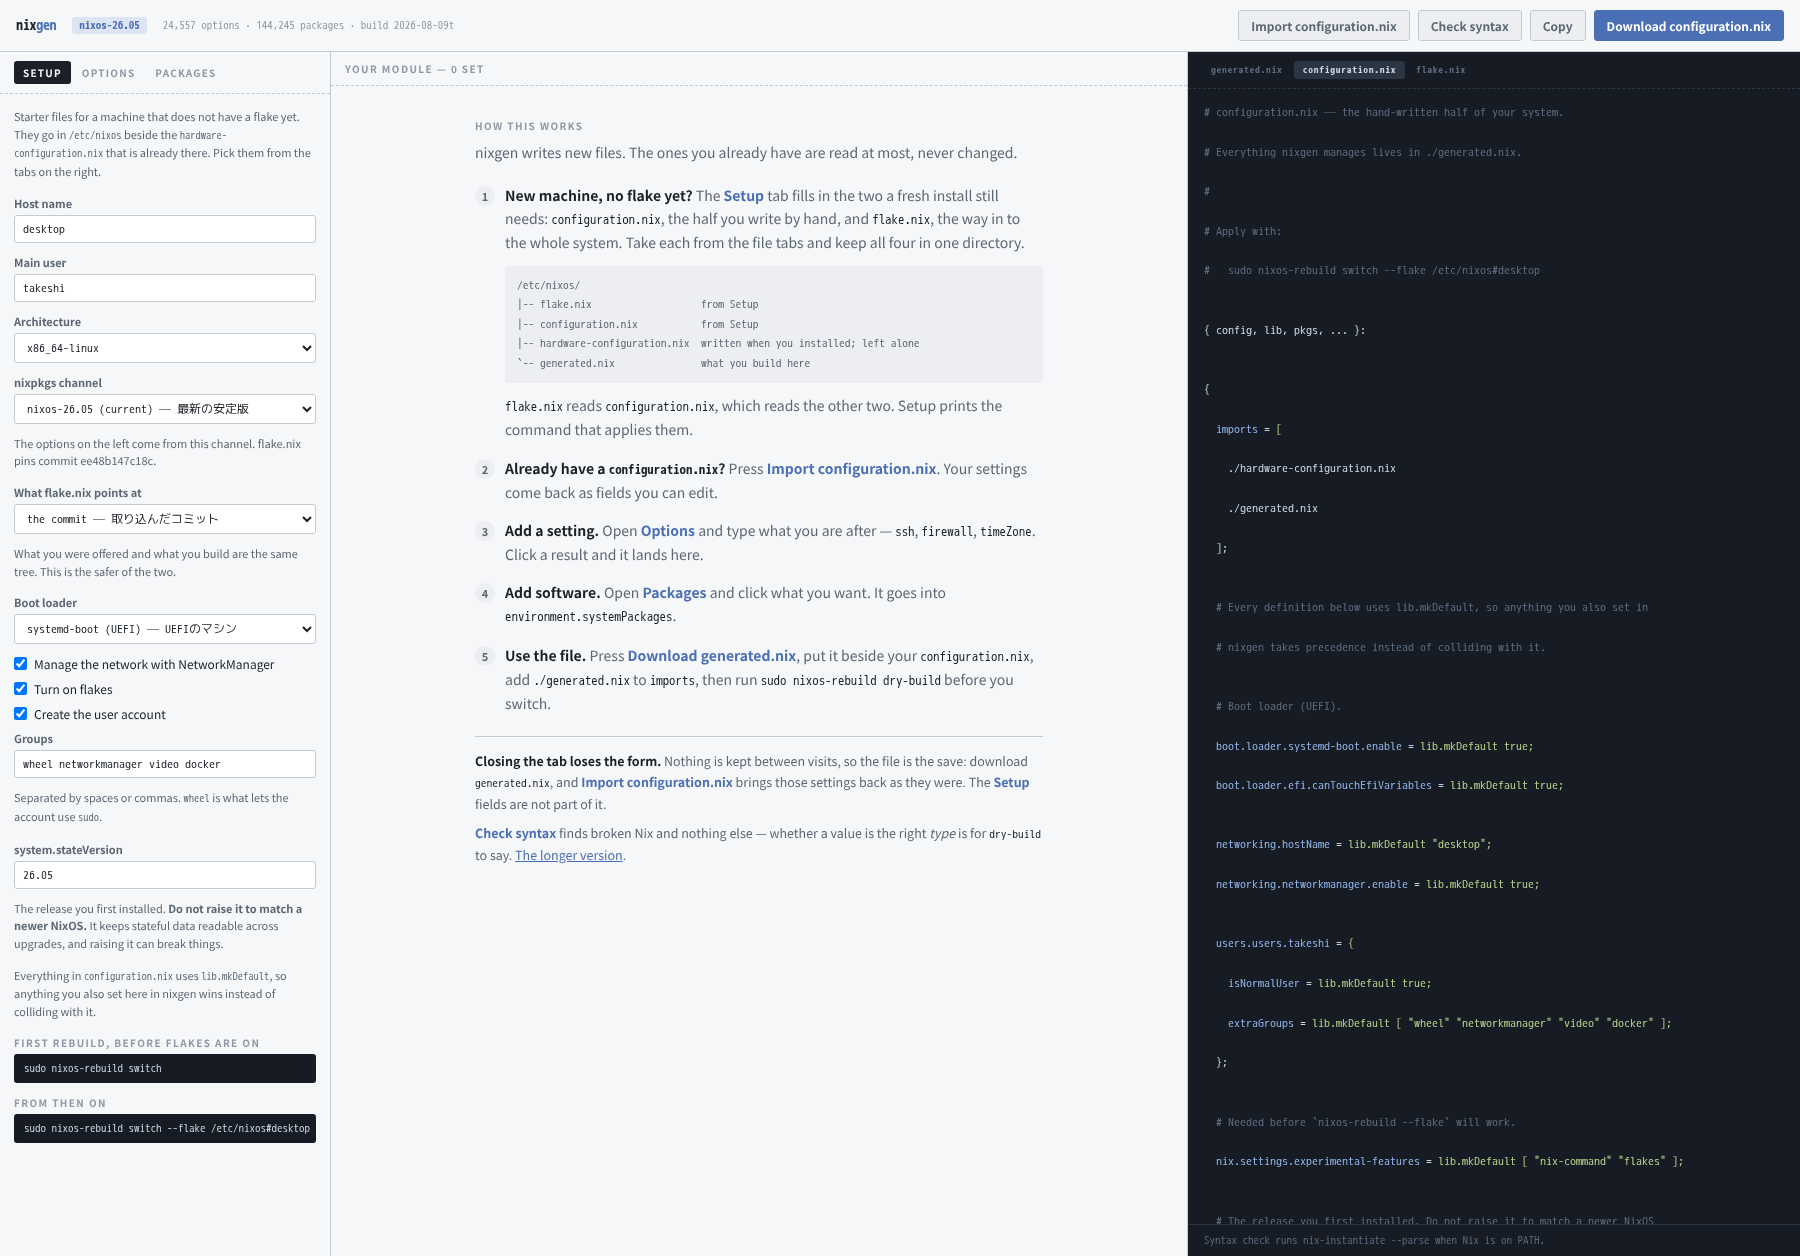
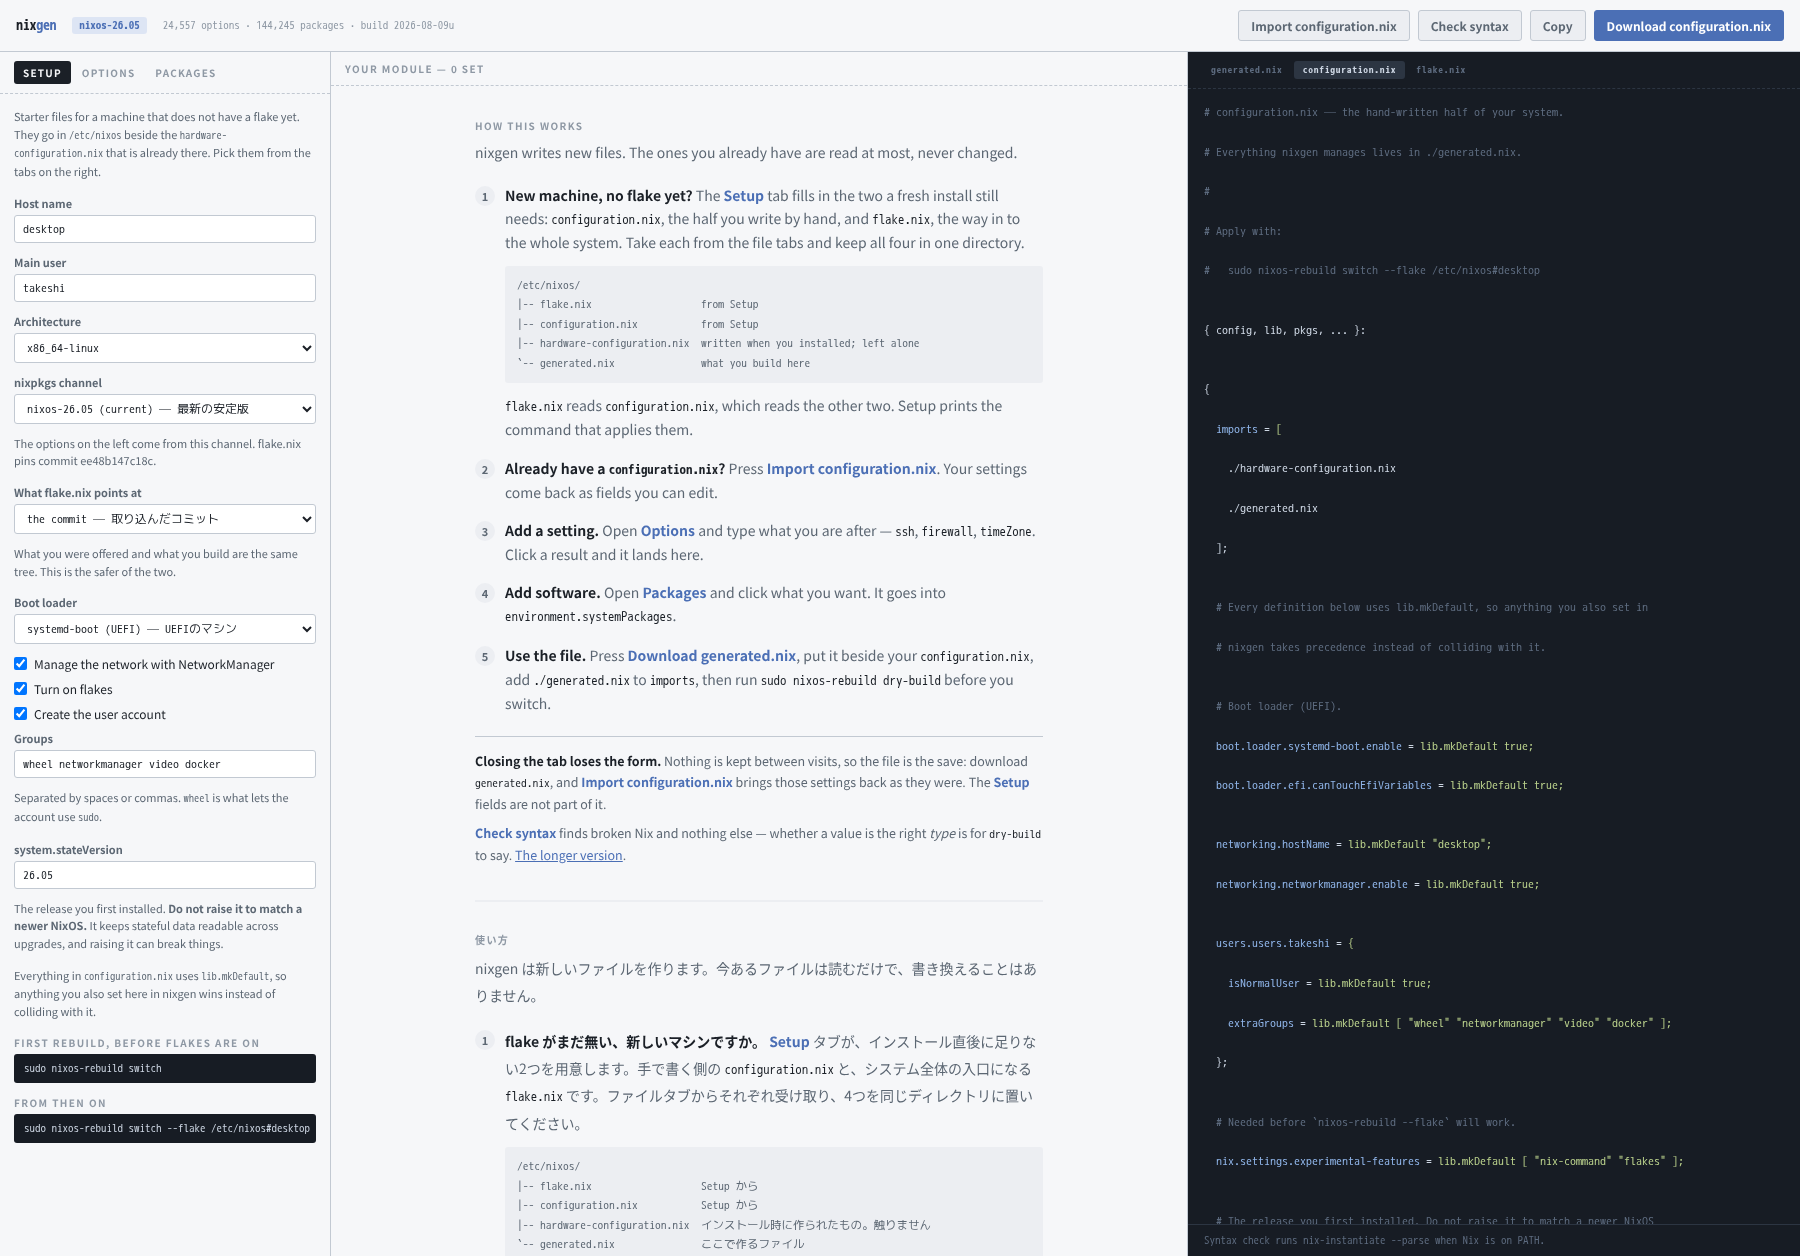
Say how this works twice: English above, Japanese below
The five steps name tabs and buttons, so translating them names things
that are not on the screen. Written out rather than translated, and the
two halves have to be kept in step by hand from here.

Two things the Japanese half needed: no source line breaks inside it, a
newline between two Japanese characters renders as a visible space; and
no space before a Japanese character unless what precedes it is Latin.

Also found while measuring: the four header buttons could not wrap, so a
phone scrolled the page sideways rather than the row onto a second line.
Checked at 320, 375, 768, 1280 and 1800.

diff --git a/build/static/index.html b/build/static/index.html
@@ -247,6 +247,36 @@
               <a href="https://hatake716.github.io/nixgen/" target="_blank"
                  rel="noreferrer">The longer version</a>.</p>
           </div>
+          <!-- The same five steps in Japanese, written rather than translated.
+               This is the first thing anyone sees, and a machine translation of
+               it turns the tab and button names into words that are not on any
+               tab or button. The two halves have to be kept in step by hand.
+
+               The Japanese runs off the right of this file on purpose. A line
+               break between two Japanese characters is whitespace, and the
+               browser renders it as a space, so wrapping the source the way the
+               English above is wrapped puts gaps in the middle of sentences. -->
+          <div class="ja">
+            <p class="eyebrow">使い方</p>
+            <p class="lede">nixgen は新しいファイルを作ります。今あるファイルは読むだけで、書き換えることはありません。</p>
+            <ol>
+              <li><b>flake がまだ無い、新しいマシンですか。</b> <b class="w">Setup</b> タブが、インストール直後に足りない2つを用意します。手で書く側の <code>configuration.nix</code> と、システム全体の入口になる <code>flake.nix</code> です。ファイルタブからそれぞれ受け取り、4つを同じディレクトリに置いてください。
+                <pre class="tree">/etc/nixos/
+|-- flake.nix                   Setup から
+|-- configuration.nix           Setup から
+|-- hardware-configuration.nix  インストール時に作られたもの。触りません
+`-- generated.nix               ここで作るファイル</pre>
+                <code>flake.nix</code> が <code>configuration.nix</code> を読み、そこから残りの2つを読みます。適用するコマンドは Setup が表示します。</li>
+              <li><b>すでに <code>configuration.nix</code> がありますか。</b> <b class="w">Import configuration.nix</b> を押してください。今の設定が、編集できる入力欄として戻ってきます。</li>
+              <li><b>設定を足す。</b> <b class="w">Options</b> を開いて、探しているものを入力します — <code>ssh</code>、<code>firewall</code>、<code>timeZone</code> など。結果をクリックすると、ここに入ります。</li>
+              <li><b>ソフトを足す。</b> <b class="w">Packages</b> を開いて、欲しいものをクリックします。<code>environment.systemPackages</code> に入ります。</li>
+              <li><b>できたファイルを使う。</b> <b class="w">Download generated.nix</b> を押し、<code>configuration.nix</code> の隣に置いて、<code>imports</code> に <code>./generated.nix</code> を足します。切り替える前に、<code>sudo nixos-rebuild dry-build</code> で確かめてください。</li>
+            </ol>
+            <div class="after">
+              <p><b>タブを閉じると、入力した内容は消えます。</b>何も保存していないので、保存にあたるのはファイルです。<code>generated.nix</code> をダウンロードしておけば、<b class="w">Import configuration.nix</b> で元のとおりに戻せます。<b class="w">Setup</b> の入力欄はこれに含まれません。</p>
+              <p><b class="w">Check syntax</b> が見るのは Nix の文法だけです。値が正しい<i>型</i>かどうかは <code>dry-build</code> が答えます。<a href="https://hatake716.github.io/nixgen/" target="_blank" rel="noreferrer">詳しい説明</a>。</p>
+            </div>
+          </div>
         </div>
         <div id="editor"></div>
         <div id="notice"></div>

diff --git a/build/static/app.css b/build/static/app.css
@@ -62,7 +62,14 @@ header {
 
 .counts { font-family: var(--mono); font-size: 11px; color: var(--ink-faint); }
 
-header .actions { margin-left: auto; display: flex; gap: 8px; align-items: center; }
+/* The header wraps; this has to wrap too. Four buttons in a row are wider than
+   a phone, and a flex row that cannot wrap will not go narrower than its
+   contents — so the whole page scrolled sideways rather than the buttons
+   moving onto a second line. */
+header .actions {
+  margin-left: auto; display: flex; gap: 8px; align-items: center;
+  flex-wrap: wrap; justify-content: flex-end;
+}
 
 .btn {
   border: 1px solid var(--rule); background: var(--panel-2);
@@ -190,6 +197,11 @@ main {
 #howto .after p { margin: 0 0 9px; }
 #howto .after p:last-child { margin-bottom: 0; }
 #howto a { color: var(--accent); }
+/* English above, Japanese below, with enough of a gap that the second eyebrow
+   reads as the start of the same thing again rather than as a sixth step. */
+#howto .ja { margin-top: 34px; padding-top: 30px; border-top: 2px solid var(--panel-2); }
+#howto .ja .lede { line-height: 1.9; }
+#howto .ja li { line-height: 1.9; }
 
 .card { border-bottom: 1px solid var(--rule); padding: 12px 16px; border-left: 3px solid transparent; }
 .card.touched { border-left-color: var(--accent); background: #fff; }

diff --git a/build/static/app.js b/build/static/app.js
@@ -2,7 +2,7 @@
 
 /* Shown in the header. Bump it whenever this file changes, so "the fix did not
    work" can be told apart from "the old file is still being served". */
-const BUILD = '2026-08-09t';
+const BUILD = '2026-08-09u';
 
 const $  = (s, r = document) => r.querySelector(s);
 const $$ = (s, r = document) => [...r.querySelectorAll(s)];

diff --git a/CLAUDE.md b/CLAUDE.md
@@ -186,6 +186,15 @@ at `nixos-rebuild`, which is the least helpful place for it to surface.
   `order: -1` when it has something to say. It was below the module for a while,
   which put "kept as written: not an option in this release" — the one thing
   `nixos-rebuild` refuses outright — a screen or two down, where it went unread.
+- **The five steps are written twice, English then Japanese, and the two
+  halves are kept in step by hand.** They name tabs and buttons, so a machine
+  translation of them points at names that are not on the screen — which is the
+  same argument the option paths and the dropdown labels are held to. Two
+  things follow. A line break between two Japanese characters is whitespace and
+  renders as a visible space, so the Japanese half runs off the right of
+  `index.html` rather than being wrapped like the English. And a space before a
+  Japanese character is only right when what precedes it is Latin: `</b> 何も`
+  showed a gap mid-sentence, `</b> <b class="w">Setup</b>` does not.
 - **The five steps live where the module will be.** Nothing is stored between
   visits, so anything with a dismiss button would ask to be dismissed on every
   launch; putting the steps in the empty module pane means adding a setting is
@@ -346,6 +355,8 @@ once in ways nothing else caught.
 | `日本語` and `Grüße` come back as mojibake | the unescaper was Python's `unicode_escape`, which reads UTF-8 bytes as latin-1 |
 | `services.nice.level = __sub 0 5` in a carried-over line | Nix has no negative literal; its parser's form was passed straight through |
 | an empty `environment.systemPackages = [ ]` cannot be added to | `[ ]` was read as "not a list of packages" rather than as any list |
+| the whole page scrolls sideways on a phone | four header buttons in a flex row with no `flex-wrap` |
+| half a dropdown label is missing | a closed select drops what does not fit, and what did not fit was the Japanese |
 
 ---
 

diff --git a/CHANGELOG.md b/CHANGELOG.md
@@ -9,6 +9,17 @@ option counts.
 
 ## English
 
+### build 2026-08-09u
+
+- **"How this works" is in both languages**: the English five steps, then the
+  same five in Japanese below them. Written, not translated — the steps name
+  the tabs and buttons, and a machine translation of them names things that are
+  not on any tab or button.
+- **The buttons in the header wrap on a narrow screen.** Four of them in a row
+  are wider than a phone, and a flex row that cannot wrap will not go narrower
+  than its contents, so the whole page scrolled sideways instead. Checked at
+  320, 375, 768, 1280 and 1800 pixels; none of them scrolls sideways now.
+
 ### build 2026-08-09t
 
 - **Every dropdown carries its Japanese now**, not just the app categories:
@@ -341,6 +352,11 @@ three of these six showed up in only one of the two.
 ---
 
 ## 日本語
+
+### build 2026-08-09u
+
+- **How this works を英語と日本語の二段構成にしました。** 上半分が英語の5ステップ、下半分が同じ内容の日本語です。**翻訳ではなく書き下ろし**です。各ステップはタブやボタンの名前を指しているため、機械翻訳にかけると**画面のどこにも無い名前**を指すことになるからです。
+- **狭い画面でヘッダーのボタンが折り返すようにしました。** ボタン4つを一列に並べると携帯電話の幅を超えます。折り返さない flex の行は**中身より狭くなれない**ため、代わりにページ全体が横スクロールしていました。320・375・768・1280・1800ピクセルで確認し、**いずれも横スクロールしません**。
 
 ### build 2026-08-09t
 
